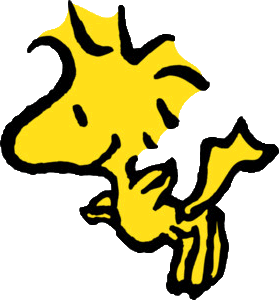
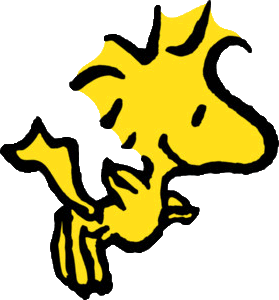
updated stiff scene

diff --git a/css/main.css b/css/main.css
@@ -184,7 +184,7 @@ audio { display: none; }
 #scene9 .bg { background:  #000 url('../img/scene-aquarium/bg.jpg') left bottom no-repeat fixed;}
 #scene10 .bg { background:  #FFF url('../img/scene-truck/bg.jpg') left bottom no-repeat fixed; }
 #scene11 .bg { background:  #B6D5EA url('../img/scene-pool/bg-2.jpg') left bottom no-repeat fixed;}
-#scene12 .bg { background:  #26291D url('../img/scene-stieff/bg.jpg') left bottom no-repeat fixed;}
+#scene12 .bg { background:  #26291D url('../img/scene-stieff/bg-2.jpg') left bottom no-repeat fixed;}
 #scene13 .bg { background:  #263383 url('../img/scene-sleeping/bg.jpg') left bottom no-repeat fixed;}
 #scene13 #sleepingbg2 { background:  #263383 url('../img/scene-sleeping/bg2.jpg') left bottom no-repeat fixed; opacity:0; }
 #scene14 .bg { background:  #BFF4FD url('../img/scene-celebration/bg.jpg') left bottom no-repeat fixed; }
@@ -753,9 +753,12 @@ audio { display: none; }
 /* ===== Scene 12  ===== */
 
 #s12t1 { background-image:url('../img/scene-stieff/stieff-text.png'); }
-#foreground {  position:absolute;bottom:-400px; left:569px; background:url('../img/scene-stieff/foreground.png') no-repeat; width: 824px; height:101px; }
 #lights-out { position:absolute; bottom: 407px; left:0; width:1399px; height:593px; background:url('../img/scene-stieff/lights-out.jpg') no-repeat; opacity: 0; }
-#midground { position:absolute; bottom: 0px; left:0; width:1400px; height:388px; background:url('../img/scene-stieff/midground.png') no-repeat;  }
+#foreground {  position:absolute;bottom:-400px; left:260px; background:url('../img/scene-stieff/foreground.png') no-repeat; width: 1403px; height:138px; }
+/*#midground { position:absolute; bottom: 0px; left:0; width:1400px; height:388px; background:url('../img/scene-stieff/midground.png') no-repeat;  }*/
+#back-snow-stieff { position: absolute; bottom:-100px; left:0; width:1957px; height:534px; background: url('../img/scene-stieff/back-snow.png') no-repeat 0 0; }
+#tent { position: absolute; bottom:-292px; left:680px; width:1188px; height:292px; background: url('../img/scene-stieff/tent.png') no-repeat 0 0;  }
+#woodstock { position: absolute; bottom:300px; left:429px; width:279px; height:300px; background: url('../img/scene-stieff/woodstock.png') no-repeat 0 0; }
 
 #fire { position:absolute; bottom: -400px; left:651px;width: 381px; height: 370px; background: url('../img/scene-stieff/fire.png') no-repeat -784px -381px;  }
 #fire.fire1 { background-position: -784px -381px; }

diff --git a/js/main.js b/js/main.js
@@ -724,10 +724,15 @@ $(document).ready(function(){
 					{id:document.getElementById("s12t1"), start: 12.0, end: 12.1, x: 1, y: 0, type:"opacity"},
 					{id:document.getElementById("s12t1"), start: 12.2, end: 12.28, x: -1, y: 0, type:"opacity"},
 					{id:document.getElementById("lights-out"), start: 12.69, end: 12.70, x: 1, y: 0, type:"opacity"},
-					{id:document.getElementById("grinch-stieff"), start: 12.2, end: 12.28, x: 0, y: -400, type:"translate"},
-					{id:document.getElementById("stieff"), start: 12.2, end: 12.28, x: 0, y: -400, type:"translate"},
-					{id:document.getElementById("fire"), start: 12.2, end: 12.28, x: 0, y: -400, type:"translate"},
-					{id:document.getElementById("foreground"), start: 12.2, end: 12.28, x: 0, y: -400, type:"translate"},
+					{id:document.getElementById("grinch-stieff"), start: 12.2, end: 12.34, x: 0, y: -400, type:"translate"},
+					{id:document.getElementById("tent"), start: 12.2, end: 12.34, x: 0, y: -234, type:"translate"},
+					{id:document.getElementById("stieff"), start: 12.2, end: 12.34, x: 0, y: -400, type:"translate"},
+					{id:document.getElementById("fire"), start: 12.2, end: 12.34, x: 0, y: -400, type:"translate"},
+					{id:document.getElementById("foreground"), start: 12.2, end: 12.34, x: 0, y: -400, type:"translate"},
+					{id:document.getElementById("back-snow-stieff"), start: 12.2, end: 12.34, x: 0, y: -100, type:"translate"},
+					{id:document.getElementById("woodstock"), start: 12.2, end: 12.34, x: -.7, y: -.7, type:"scale"},
+					{id:document.getElementById("woodstock-container"), start: 12.16, end: 12.29, x: 100, y: 335, type:"translate"},
+					{id:document.getElementById("woodstock-container"), start: 12.29, end: 12.3, x: -1, y: 0, type:"opacity", fade:"out"},
 
 					{id:sections[11], start: 12.2, end: 12.28, x: 1, y: 0, type:"opacity"},
 					{id:sections[11], start: 12.95, end: 12.99, x: -1, y: 0, type:"opacity"},

diff --git a/index.html b/index.html
@@ -153,10 +153,14 @@
 		  <div id="s12bg" class="bg">
 			<div id="lights-out"></div>
 			<div id="grinch-stieff"></div>
-			<div id="midground"></div>
+			<div id="back-snow-stieff"></div>
+			<div id="tent"></div>
 			<div id="stieff"></div>
 			<div id="fire"></div>
 			<div id="foreground"></div>
+			<div id="woodstock-container">
+				<div id="woodstock"></div>
+			</div>
 		  </div>
 		</section>
 
